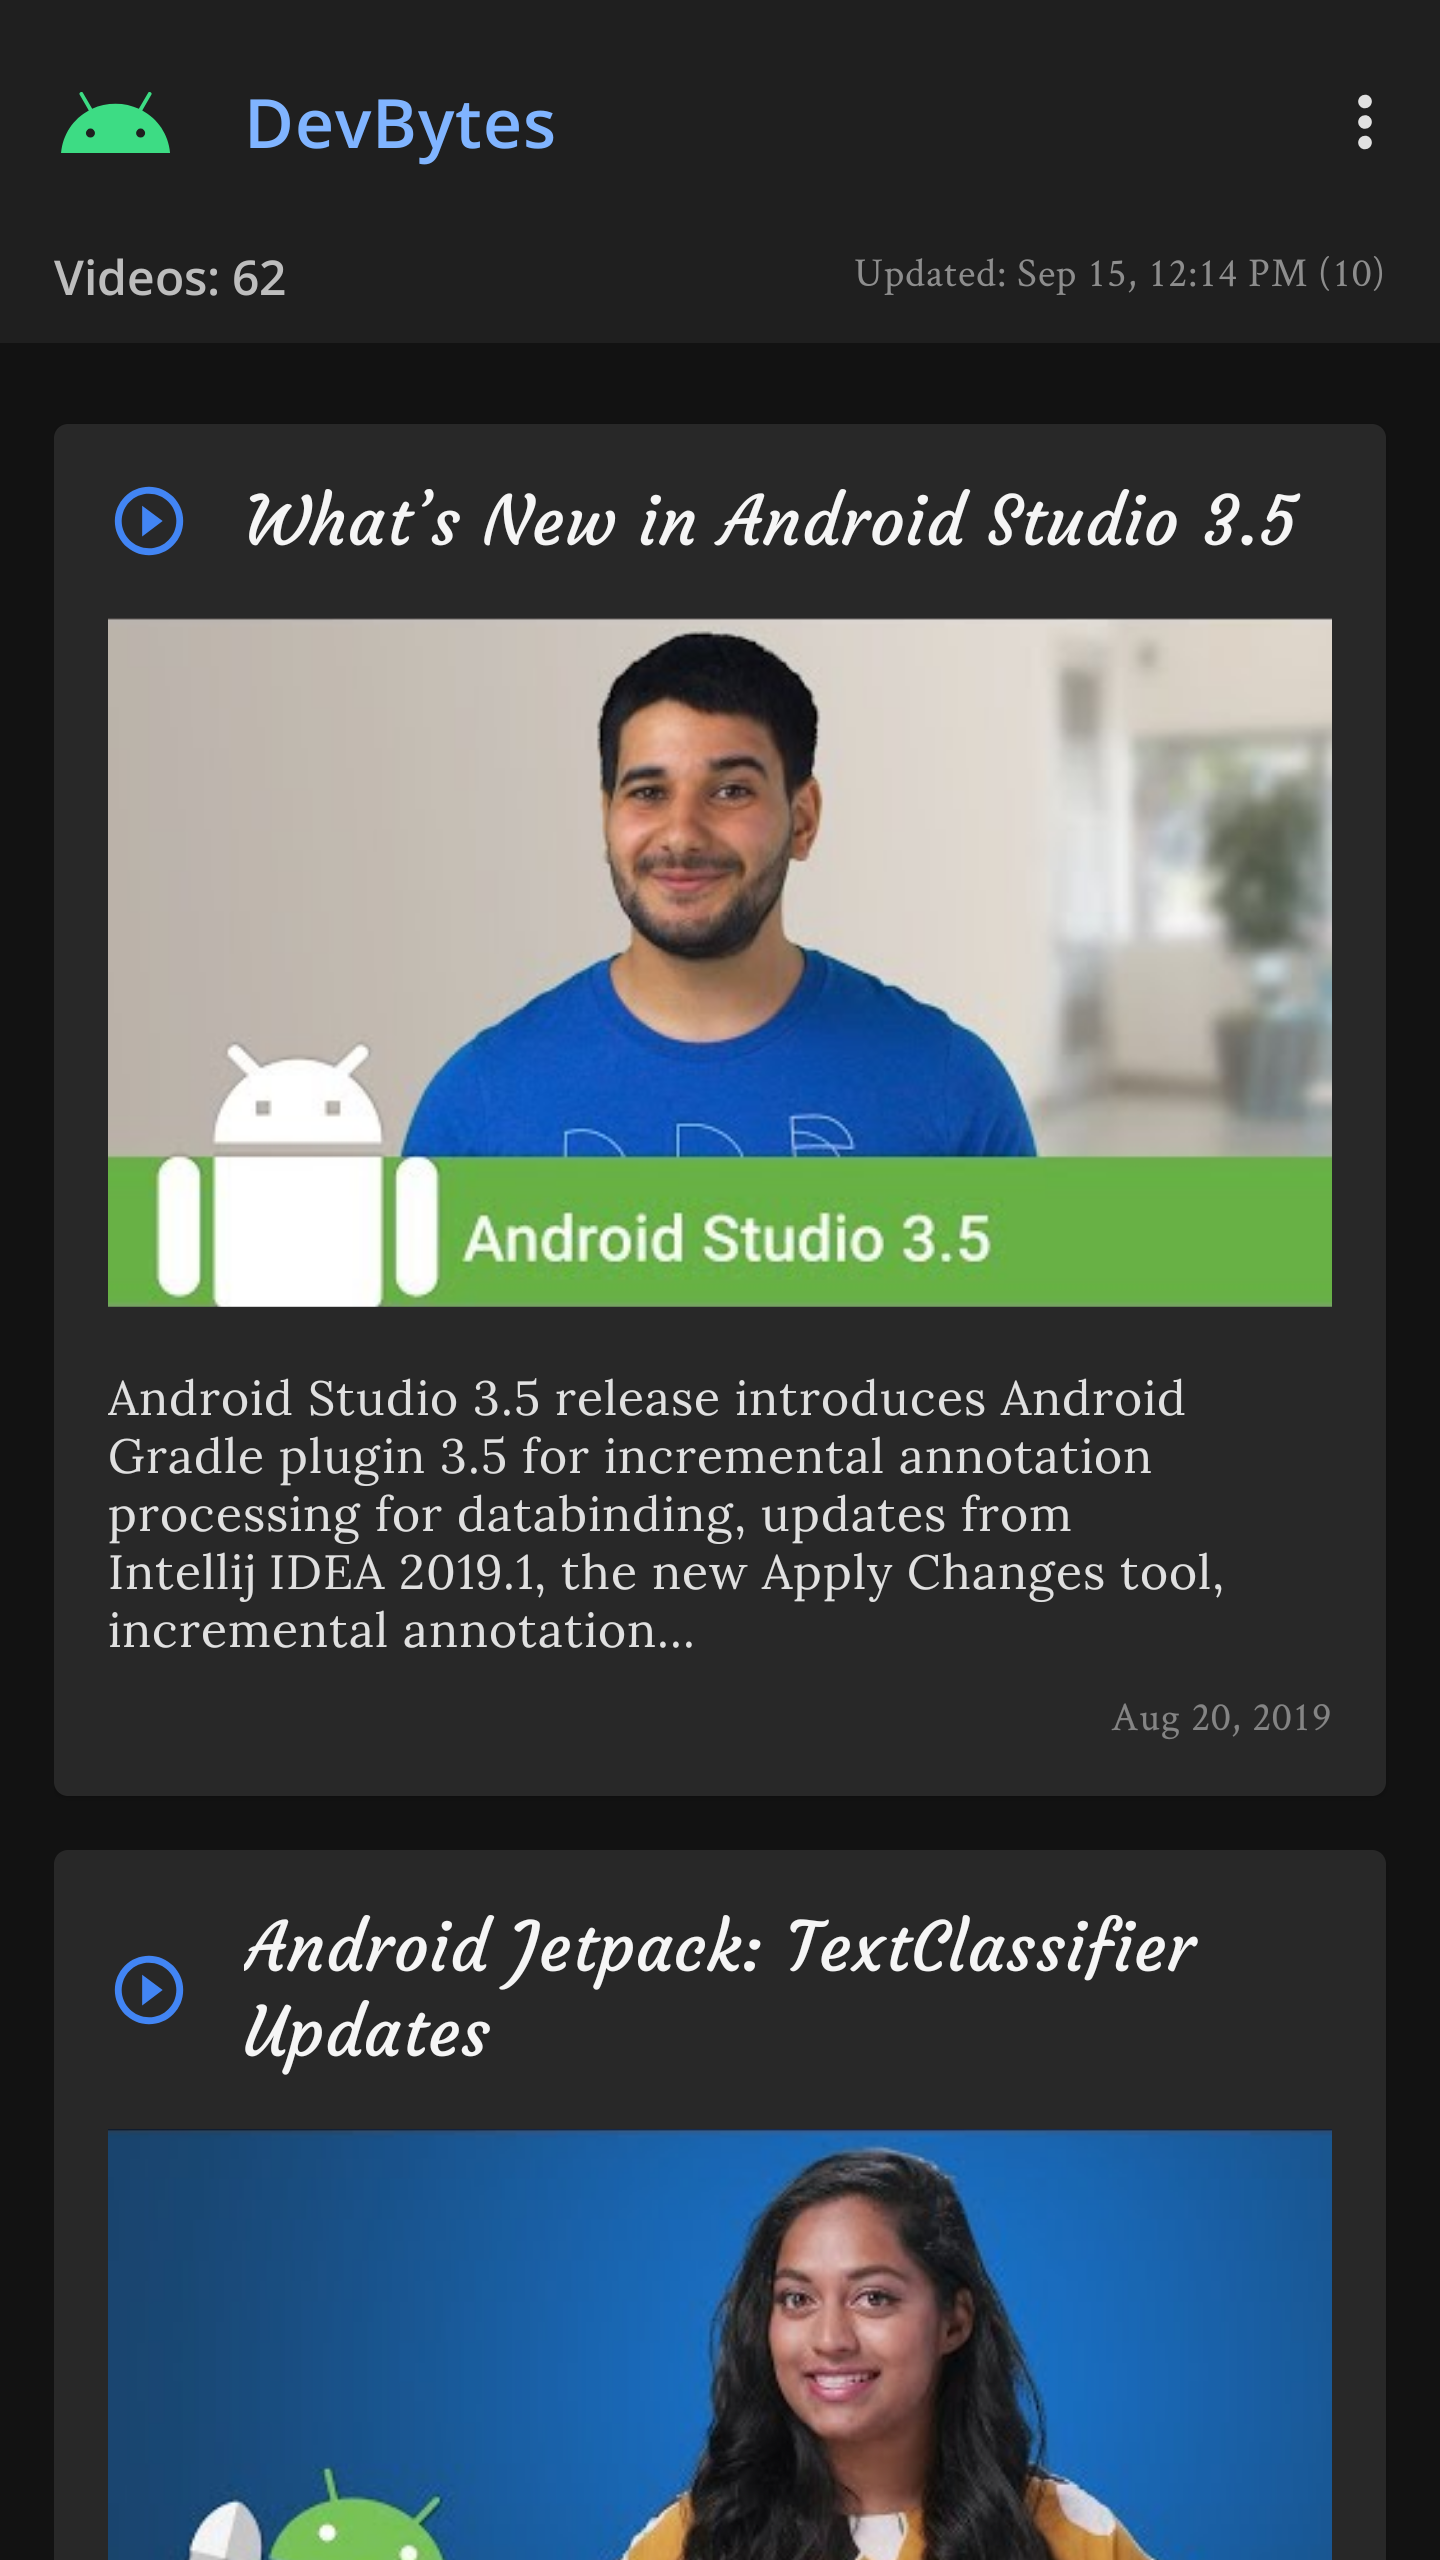
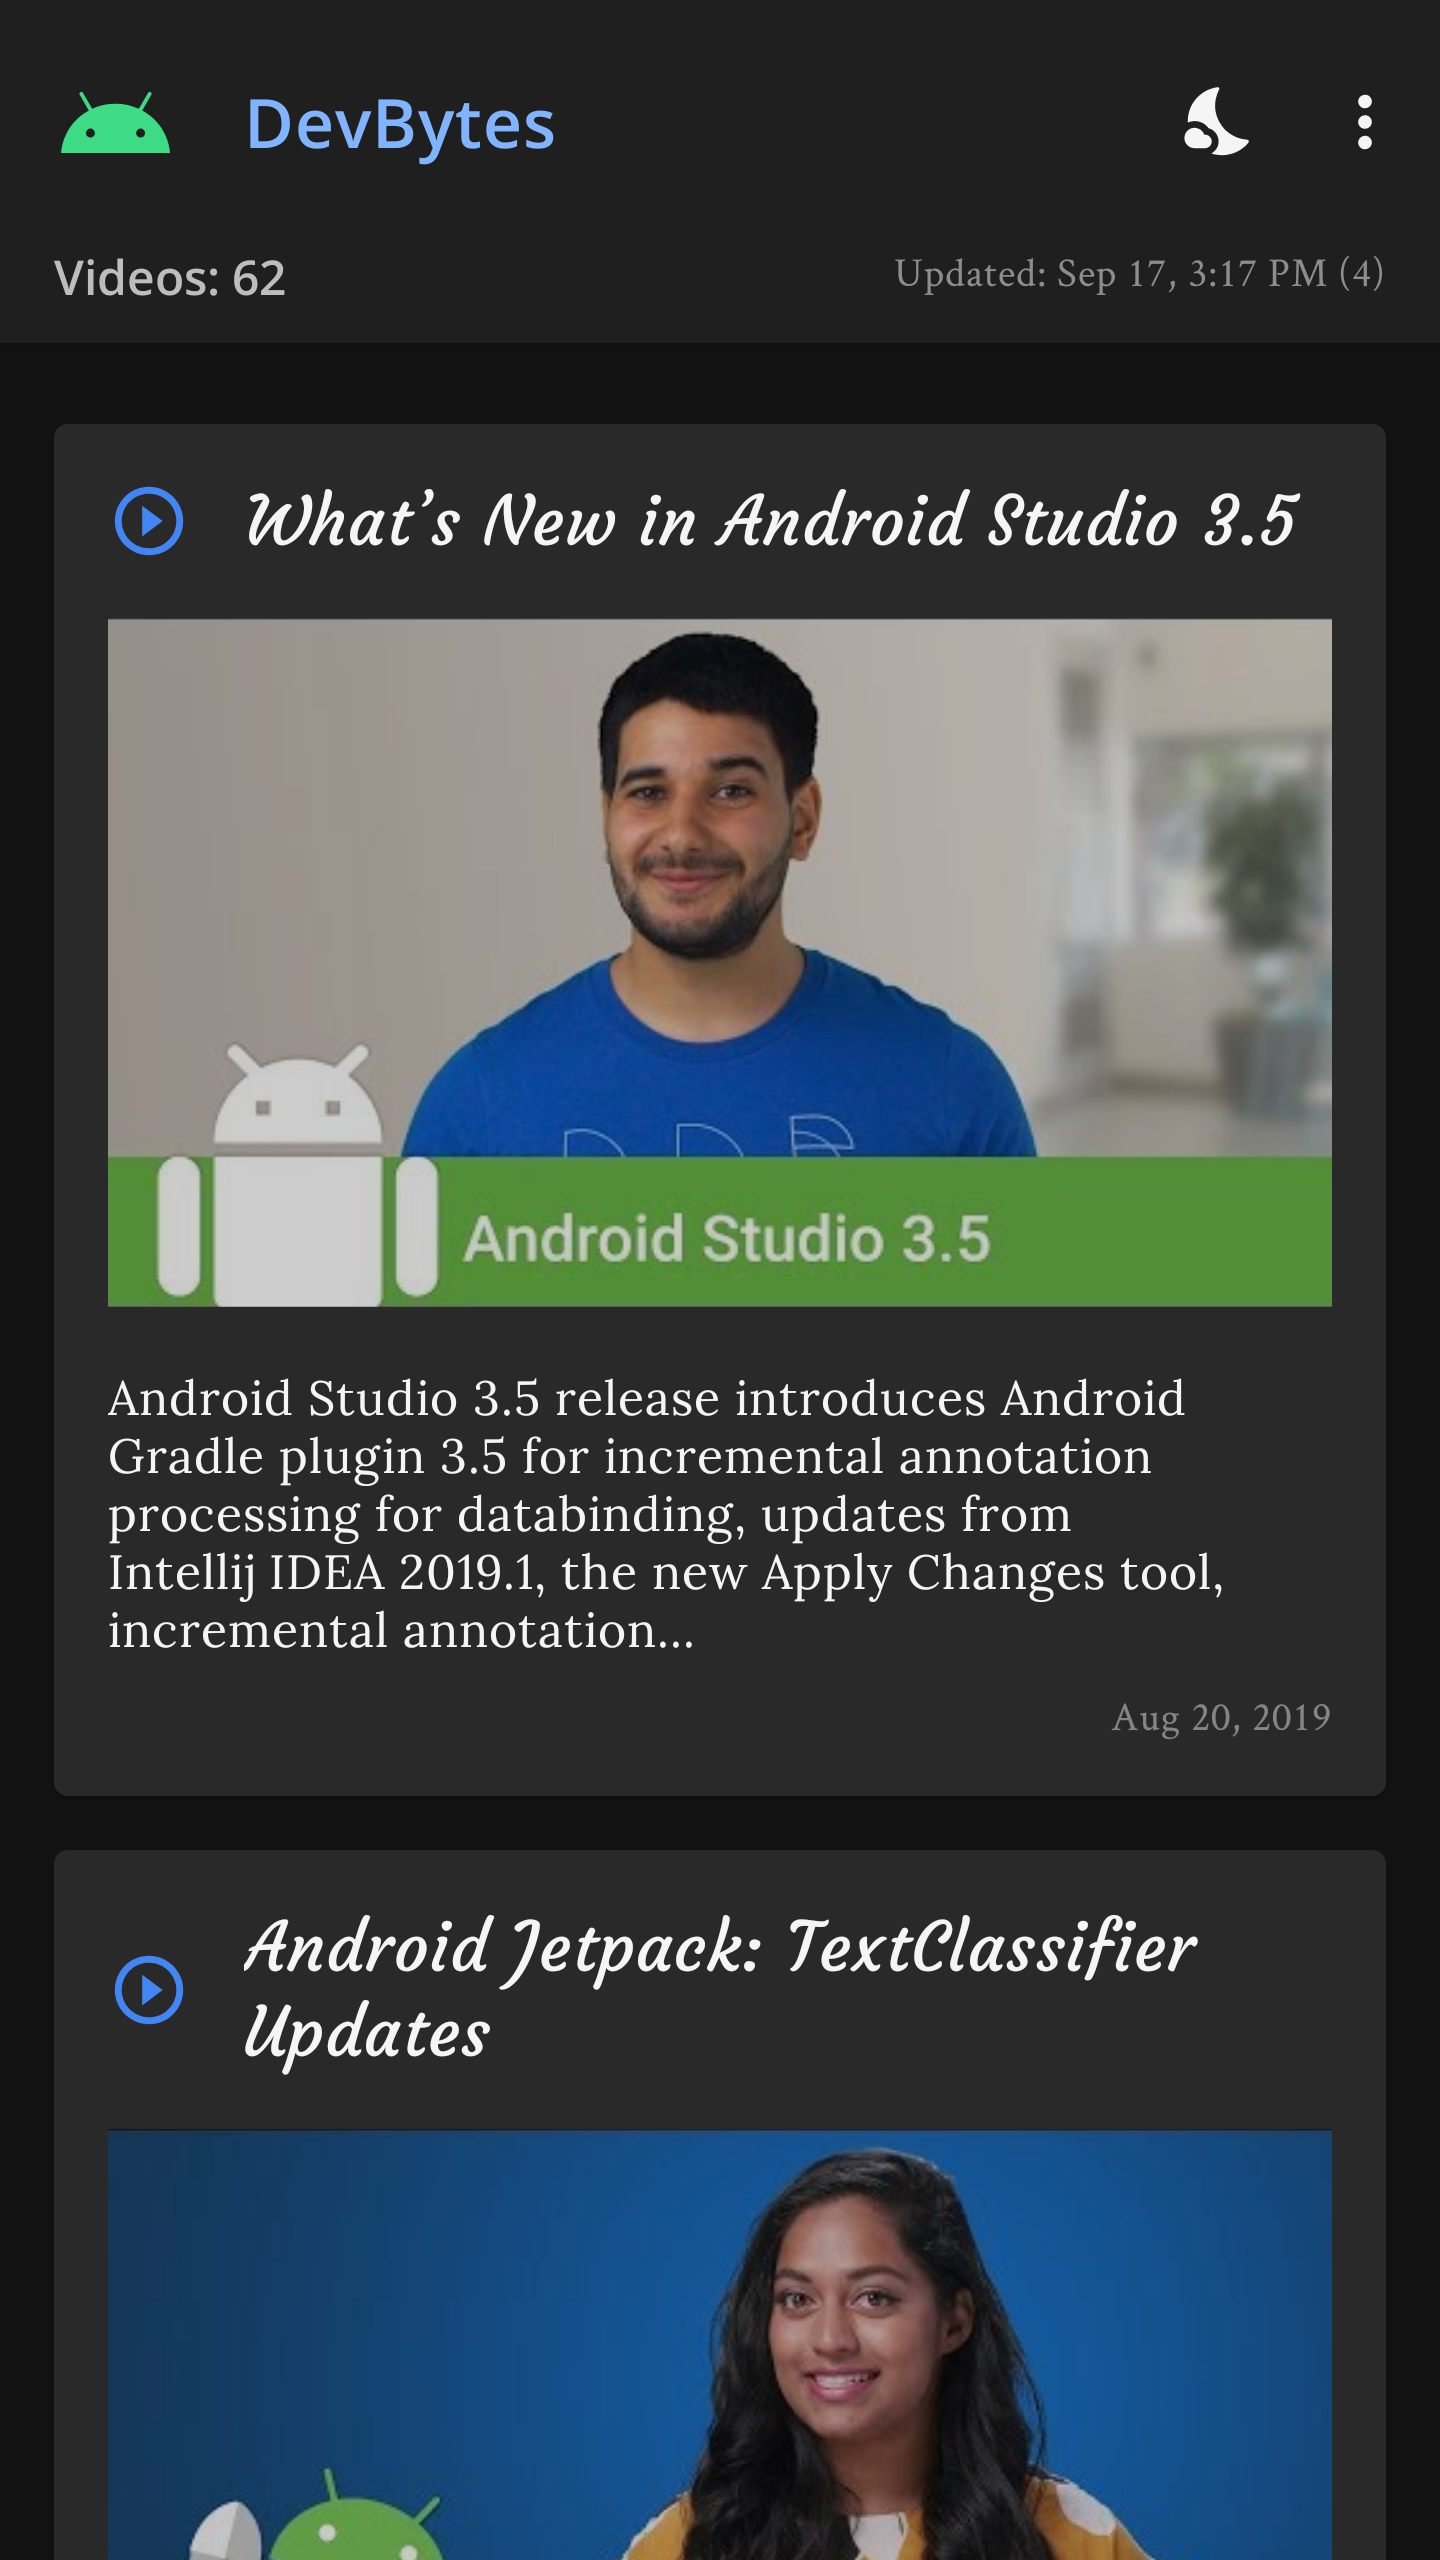
update screenshots day & night screenshots

diff --git a/README.md b/README.md
@@ -16,6 +16,8 @@ periodic work. In this app it's used to setup a daily background data sync.
 
 ![Screenshot1](screenshots/screen_1.png) ![Screenshot2](screenshots/screen_2.png)
 
+![Screenshot1_light](screenshots/screen_1_light.png) ![Screenshot2_light](screenshots/screen_2_light.png)
+
 
 ## How to use this repo while taking the course
 
